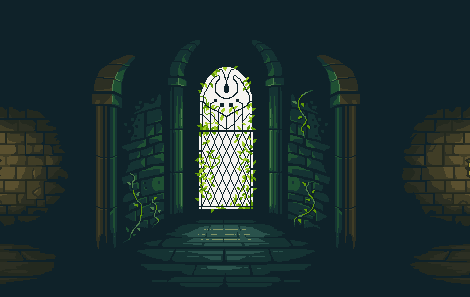
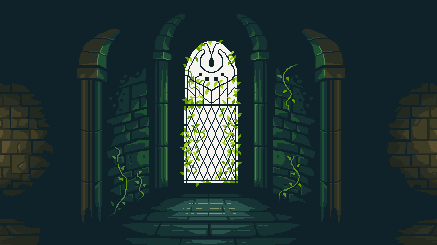
atualizacao fase2
adicionado sistema de derrota, retry e vitoria, alem de fundo de mapa.

diff --git a/fase2.c b/fase2.c
@@ -27,6 +27,7 @@ typedef struct Enviroment
 
 Envment base;
 Envment tiles[8];
+
 Texture2D tilesTxt;
 Rectangle tilesRect;
 
@@ -35,33 +36,77 @@ Rectangle portalrect;
 
 Texture2D backgroundFase2;
 Rectangle backgroundFase2rect;
-    
-Camera2D cameraJumper = {0};
-int frames=0;
-    int playerTxtFrames = 0;
-    int framecontPlayer = 0;
-    int framespeedPlayer = 9;
 
-    int portalFrames=0;
-    int framecontportal=0;
-    int portalmode=0;
-
+Rectangle cristal;
+Rectangle cristalrect;
+Texture2D cristaltxt;
     
-    int i = 0;
-    int rando = 0;
-    int randwidth = 0;
-    int singleTile = 50;
-    int segundos = 0;
-    bool repetido = false;
-    bool lost = false;
-    bool portalativo = true;
-Player player = {0};
+Camera2D cameraJumper;
+    float paralaxFase2;
+    int frames;
+    int playerTxtFrames;
+    int framecontPlayer ;
+    int framespeedPlayer ;
+
+    int portalFrames;
+    int framecontportal;
+    int portalmode;
+    
+    int framecontCristal;
+    
+    int i;
+    int rando;
+    int randwidth;
+    int singleTile;
+    int segundos;
+
+    bool repetido;
+    bool lost;
+    bool victoryFase2;
+    bool gotCristal;
+    bool portalativo;
+    bool endgame;
+    bool replayfase2;
+Player player;
 
 
 void initfase2(void)
 {
+
 SetConfigFlags(FLAG_MSAA_4X_HINT);
 InitPhysics();
+    repetido = false;
+     lost = false;
+     victoryFase2 = false;
+     gotCristal = false;
+     portalativo = true;
+     endgame =false;
+     replayfase2 = false;
+
+     paralaxFase2=0.5;
+     frames=0;
+     playerTxtFrames = 0;
+     framecontPlayer = 0;
+     framespeedPlayer = 9;
+
+     portalFrames=0;
+     framecontportal=0;
+     portalmode=0;
+
+    framecontCristal = 0;
+    
+     i = 0;
+     rando = 0;
+     randwidth = 0;
+     singleTile = 50;
+     segundos = 0;
+
+     cristaltxt = LoadTexture("assets/cristalVermelho.png");
+     cristaltxt.width = 200;
+     cristaltxt.height = 50;
+     cristal = (Rectangle){0,0,cristaltxt.width/4,cristaltxt.height};
+     cristalrect = (Rectangle){0,0,cristaltxt.width/4,cristaltxt.height};
+
 //TEXTURA DO PLAYER
 
 player.txt = LoadTexture("assets/Fase2/half.png");
@@ -88,13 +133,16 @@ portalFase2 = LoadTexture("assets/Portal.png");
 portalFase2.height *=3;
 portalFase2.width *=4;
 portalrect = (Rectangle){0,0,portalFase2.width/8,portalFase2.height/3};
-//portalrect.y = portalFase2.height/3;
 
+backgroundFase2 = LoadTexture("assets/Fase2/window.png");
+backgroundFase2.width *=10 ;
+backgroundFase2.height *=10;
+backgroundFase2rect = (Rectangle) {0,0,backgroundFase2.width,backgroundFase2.height};
 
 PhysicsBody base = CreatePhysicsBodyRectangle((Vector2){ 0, 50 }, 450, 100, 10);
 base->enabled = false;
 
-    cameraJumper.target = (Vector2) {0,0};
+    cameraJumper.target = (Vector2) {0,-100};
     cameraJumper.zoom = 0.7f;
     cameraJumper.offset = (Vector2) {larguraDaTela/2,AlturaDaTela/2};
     
@@ -104,7 +152,11 @@ base->enabled = false;
  void Refresh(){
     //ATUALIZANDO FRAMES PARA SPRITES
     frames++;
-
+    if(victoryFase2){
+        if(frames%15==0)framecontCristal++;
+        if(framecontCristal>=4)framecontCristal=0;
+        cristal.x = framecontCristal*cristaltxt.width/4;
+    }
     if(frames%60==0)segundos++;
 
      if (segundos>4) portalativo = false;
@@ -118,9 +170,6 @@ base->enabled = false;
                 framecontportal=0;
             }
             portalrect.x = framecontportal*portalFase2.width/8;
-            /*if(portalmode==1){
-                portalrect.y = 0;
-            }*/
             if(portalmode>=2){
                 portalrect.y =  2*portalFase2.height/3;
             }   
@@ -138,7 +187,7 @@ base->enabled = false;
         }
         //SPAWN DE PLATADORMAS
        
-        if(!portalativo){
+        if(!portalativo&&!lost&&!gotCristal){
         
         if(frames%120==0){
        // frames = 0;
@@ -182,23 +231,22 @@ base->enabled = false;
         player.body->velocity = veloc;
 
         }
-        
+    
         
         // MOVIMENTACAO
 
-        if (IsKeyDown(KEY_RIGHT)){ player.body->velocity.x = VELOCITY;player.direita = true;}
-        else if (IsKeyDown(KEY_LEFT)){ player.body->velocity.x = -VELOCITY;player.direita = false;}
+        if (IsKeyDown(KEY_RIGHT)){ player.body->velocity.x = VELOCITY*1.1;player.direita = true;}
+        else if (IsKeyDown(KEY_LEFT)){ player.body->velocity.x = -VELOCITY*1.1;player.direita = false;}
         else player.body->velocity.x = 0;
         if (IsKeyDown(KEY_UP) && player.body->isGrounded) player.body->velocity.y = -VELOCITY*5;
 
-        
-        
-
         //ATUALIZACAO DA CAMERA
         cameraJumper.target.y -= 1.2f;
+        if(cameraJumper.target.y<(-200)) paralaxFase2 -=0.8;
+        }
         if(player.body->position.y>=cameraJumper.target.y+AlturaDaTela*1.5) lost = true;
         if(IsKeyPressed(KEY_ZERO)) lost = true;
-        }
+        
         //ATUALIZACAO DAS SPRITES
 
         if(player.body->velocity.x==0 && player.direita){  
@@ -209,7 +257,19 @@ base->enabled = false;
         if(player.direita) player.rect.y = 0;
         else player.rect.y = player.txt.height/4;
         }
-    
+        if(segundos>=20){
+        victoryFase2 = true;
+        cristalrect.x = 0;
+        cristalrect.y = cameraJumper.target.y-400;
+        }
+        if(gotCristal&&IsKeyPressed(KEY_ZERO)) endgame=true;
+        if(lost&&IsKeyPressed(KEY_F)) endgame=true;
+        if(lost&&IsKeyPressed(KEY_R)){
+            lost = false;
+            endgame=true;
+            replayfase2 = true;
+        }
+        if(CheckCollisionPointRec(player.body->position,cristalrect)) gotCristal = true;
  }
     
 
@@ -217,7 +277,7 @@ base->enabled = false;
         BeginDrawing();
         BeginMode2D(cameraJumper);
             ClearBackground(RAYWHITE);
-
+            DrawTexture(backgroundFase2,-backgroundFase2.width/2,-backgroundFase2.height+AlturaDaTela/1.5+paralaxFase2,WHITE);
            //DESENHO DO MAPA
             for(int x=0;x<8;x++){
                 int rectsize = tiles[x].rect.width/50;
@@ -226,34 +286,58 @@ base->enabled = false;
             
                 }
             }
-
+            if(victoryFase2){
+                DrawTextureRec(cristaltxt,cristal,(Vector2){0,cameraJumper.target.y-400},WHITE);
+            }
+            
+            
             //DESENHO DO PLAYER
 
-            //if(!portalativo)
+            if(!lost&&!gotCristal){
             DrawTextureRec(player.txt,player.rect,(Vector2){player.body->position.x-25,player.body->position.y-25},WHITE);
-            DrawText(TextFormat("%d", segundos),cameraJumper.target.x+700,cameraJumper.target.y+400,50,RED);
-            if(portalativo)DrawTextureRec(portalFase2,portalrect,(Vector2){player.body->position.x-120,player.body->position.y-100},WHITE);
-            EndMode2D();
             
+            if(portalativo)DrawTextureRec(portalFase2,portalrect,(Vector2){player.body->position.x-120,player.body->position.y-100},WHITE);
+            }
+           
 
+            
+            EndMode2D();
+            DrawText(TextFormat("%d", segundos),1100,600,50,RED);
+            if(victoryFase2&&gotCristal){
+                DrawRectangleGradientH(0,0,1280,720,DARKGRAY,WHITE);
+                DrawText("YOU WON!!!",300,360,100,PURPLE);
+                DrawText("pressione 0 para voltar",100,700,20,RED);
+            }
+            else if(lost){
+                DrawRectangleGradientH(0,0,1280,720,DARKGRAY,BLACK);
+                DrawText("YOU LOST!!!",300,360,100,RED);
+                DrawText("pressione R para tentar de novo,ou f para desistir",100,700,20,WHITE);
+            }
             
         EndDrawing();
         
     }
 void fechar(){
 UnloadTexture(player.txt);
-UnloadTexture(tiles->txt);  
+UnloadTexture(tilesTxt);
+for(int z=0;z<8;z++){
+    DestroyPhysicsBody(tiles[z].body);
+    tiles[z].rect = (Rectangle){0,0,0,0};
+            
+}
 ClosePhysics();       
      
 }
    
 int Fase2(){
     initfase2();
-while(!lost){
+while(!endgame){
     RunPhysicsStep();
     Refresh();
     Desenhar();
 }
     fechar();
-return 0;
+    if(gotCristal) return 2;
+    else if(replayfase2) return 1;
+    else return 3;
 }

diff --git a/main.c b/main.c
@@ -43,8 +43,11 @@ int main(){
             break;
 
            case 2:
-            if(Fase2() == 0)
+            if(Fase2() == 2){
                 fase = 0;
+            }
+            else if(Fase2()==3) fase = 0;
+            else fase = 2;
             break;
 
            case 3:
